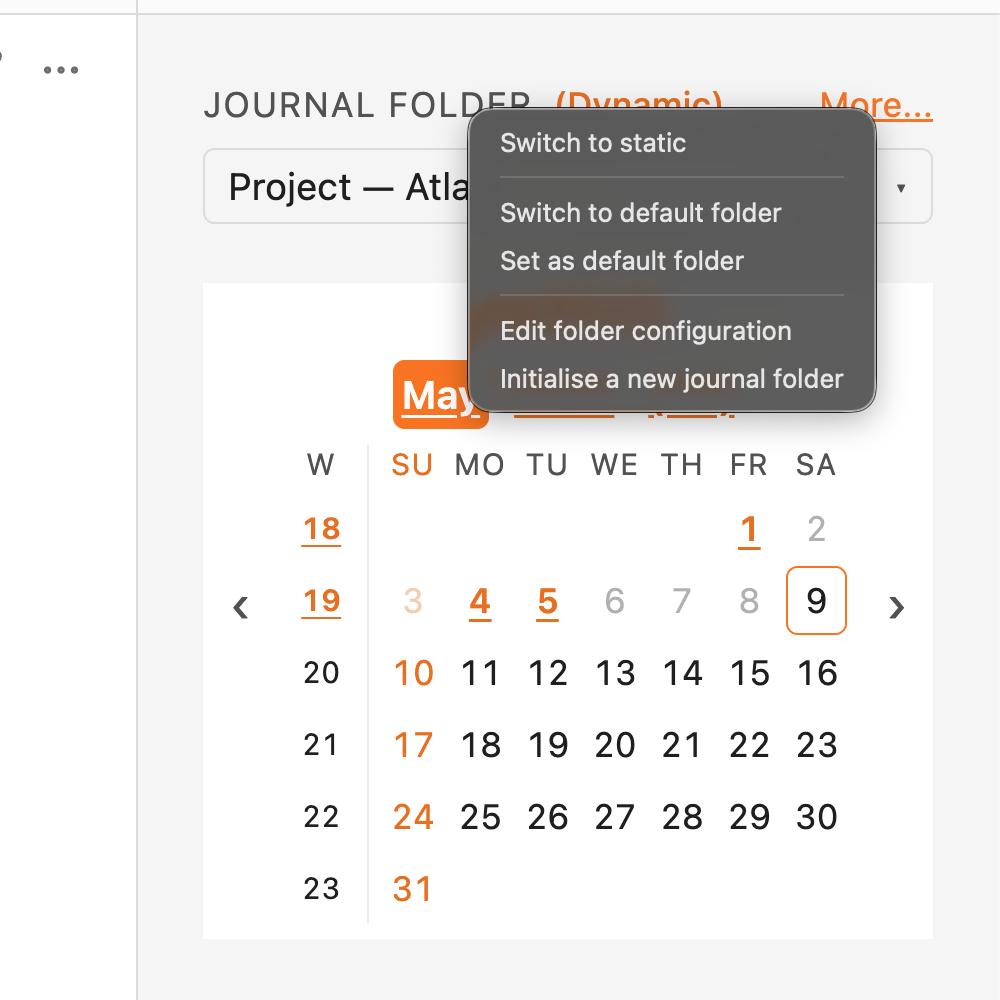
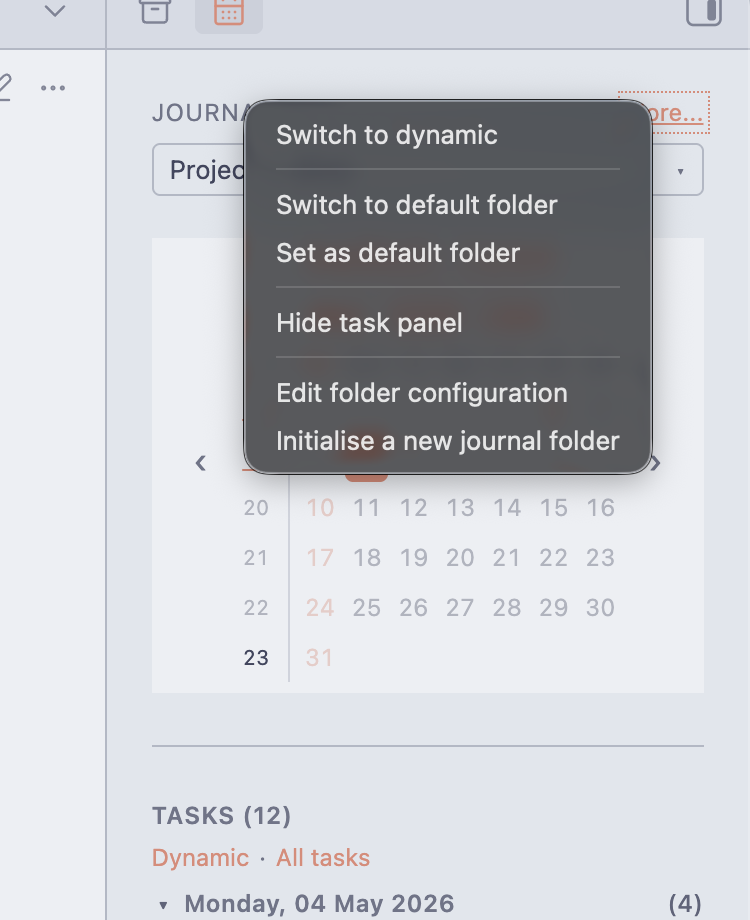
Regenerate README screenshots from the demo vault
Re-captures every PNG under docs/screenshots/ against the current demo
vault and current UI: five header tiers, the no-folder-title variant,
four More-popover states, three-month / monthly / quarters calendar
shots, four sidebar shots (dynamic, folder picker, More menu, tasks
panel), and the hero overview. Updates docs/usage/tasks.md to drop
three settings-tab screenshot references that the harness couldn't
capture cleanly in this pass (the settings-dialog clicks kept
dismissing the modal); the surrounding prose now describes the
flow / status drill-down without the placeholder images.

calendar-mobile.png is left to a follow-up capture under
`app.emulateMobile(true)` — the desktop harness doesn't drive that
reliably.

diff --git a/docs/usage/tasks.md b/docs/usage/tasks.md
@@ -31,13 +31,7 @@ Four **built-in templates** ship as read-only starting points — apply one to s
 
 Flows live globally on the plugin settings — they're defined in *Settings → Community plugins → Journal Folder → Tasks*. Each folder picks **which** flow it uses (via the per-folder *Tasks* tab in the *Edit folder configuration* modal); edits to a flow's statuses propagate to every folder pointing at the same flow.
 
-![Tasks tab — overview with flow list](../screenshots/settings-tasks-overview.png)
-
-Drilling into a flow opens an editor with apply-template / save-as / delete actions and the status list. Each status can be drilled into further for per-status appearance.
-
-![Flow detail — status list](../screenshots/settings-tasks-flow-detail.png)
-
-![Status detail — basics + icon + shell](../screenshots/settings-tasks-status-detail.png)
+Drilling into a flow opens an editor with apply-template / save-as / delete actions and the status list. Each status can be drilled into further for per-status appearance (label, character, cycle target, rendering choice, plus per-status shell / icon / colour pickers).
 
 ## Sidebar task panel
 
